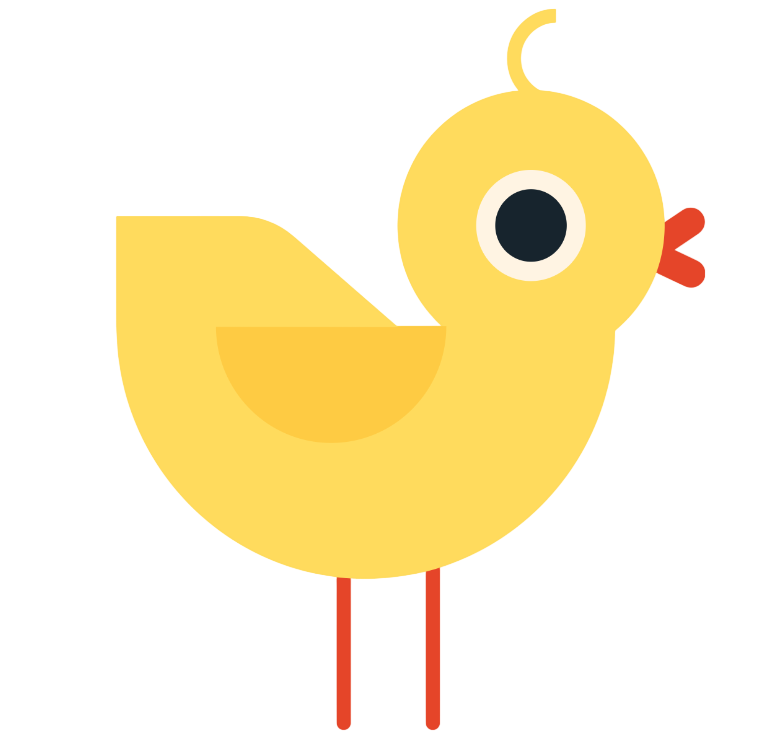
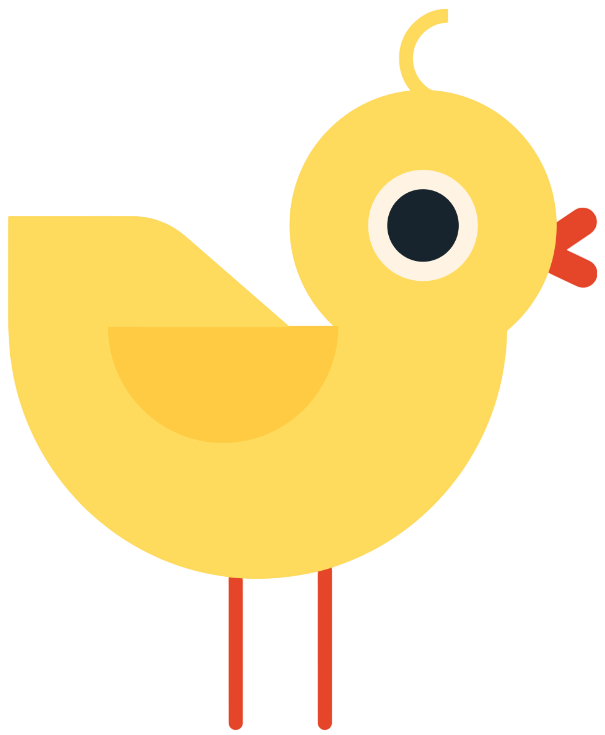
check collision logic completed

Changed region(s): [[0.0, 0.1197, 1.0, 1.0], [0.595, 0.2095, 0.8033, 0.3891], [0.6248, 0.0, 0.7438, 0.1497]]

diff --git a/main.js b/main.js
@@ -5,6 +5,8 @@ const endScreen = document.getElementById('end-screen')
 const chickie = document.getElementById('chickie')
 const egg = document.getElementById('egg')
 
+const rootFontSize = parseFloat(window.getComputedStyle(document.documentElement).fontSize);
+
 let score = 0
 let gameActive = true
 // let lastTime = null
@@ -45,3 +47,23 @@ function jump () {
         chickie.classList.remove('jump')
     }, 500)
 }
+
+const isAlive = setInterval(() => {
+    let chickieTop = parseInt(window.getComputedStyle(chickie).getPropertyValue("top"))
+    let eggLeft = parseInt(window.getComputedStyle(egg).getPropertyValue("left"))
+
+    let chickieLeftPx = 5 * rootFontSize
+    let chickieRightPx = (5+6) * rootFontSize
+    let eggLeftPx = 5 * rootFontSize
+    let eggRightPx = eggLeft + (3 * rootFontSize)
+
+    let groundLevel = 23.5 * rootFontSize
+
+    if ((eggRightPx > chickieLeftPx && eggLeft < chickieRightPx) && (chickieTop >= groundLevel)) {
+        alert('game over')
+        egg.style.animation = 'none'
+        clearInterval(isAlive)
+        gameActive = false
+    }
+
+}, 10);

diff --git a/style.css b/style.css
@@ -43,16 +43,17 @@ header h2 {
 }
 
 #chickie {
-    height: 8rem;
+    height: 9rem;
     width: 8rem;
     position: absolute;
-    bottom: 4rem;
-    left: 2rem;
+    /* bottom: 4rem; */
+    top: 24.5rem;
+    left: 5rem;
 }
 
 #egg {
     height: 5rem;
-    width: 5rem;
+    width: 4rem;
     position: absolute;
     bottom: 3rem;
     /* right: 2rem; */
@@ -80,15 +81,15 @@ header h2 {
 
 @keyframes jumpAnimation {
     0% {
-        top: 20rem;
+        top: 24.5rem;
     }
     30% {
-        top: 18rem;
+        top: 17rem;
     }
     70% {
-        top: 18rem;
+        top: 17rem;
     }
     100% {
-        top: 20rem;
+        top: 24.5rem;
     }
 }